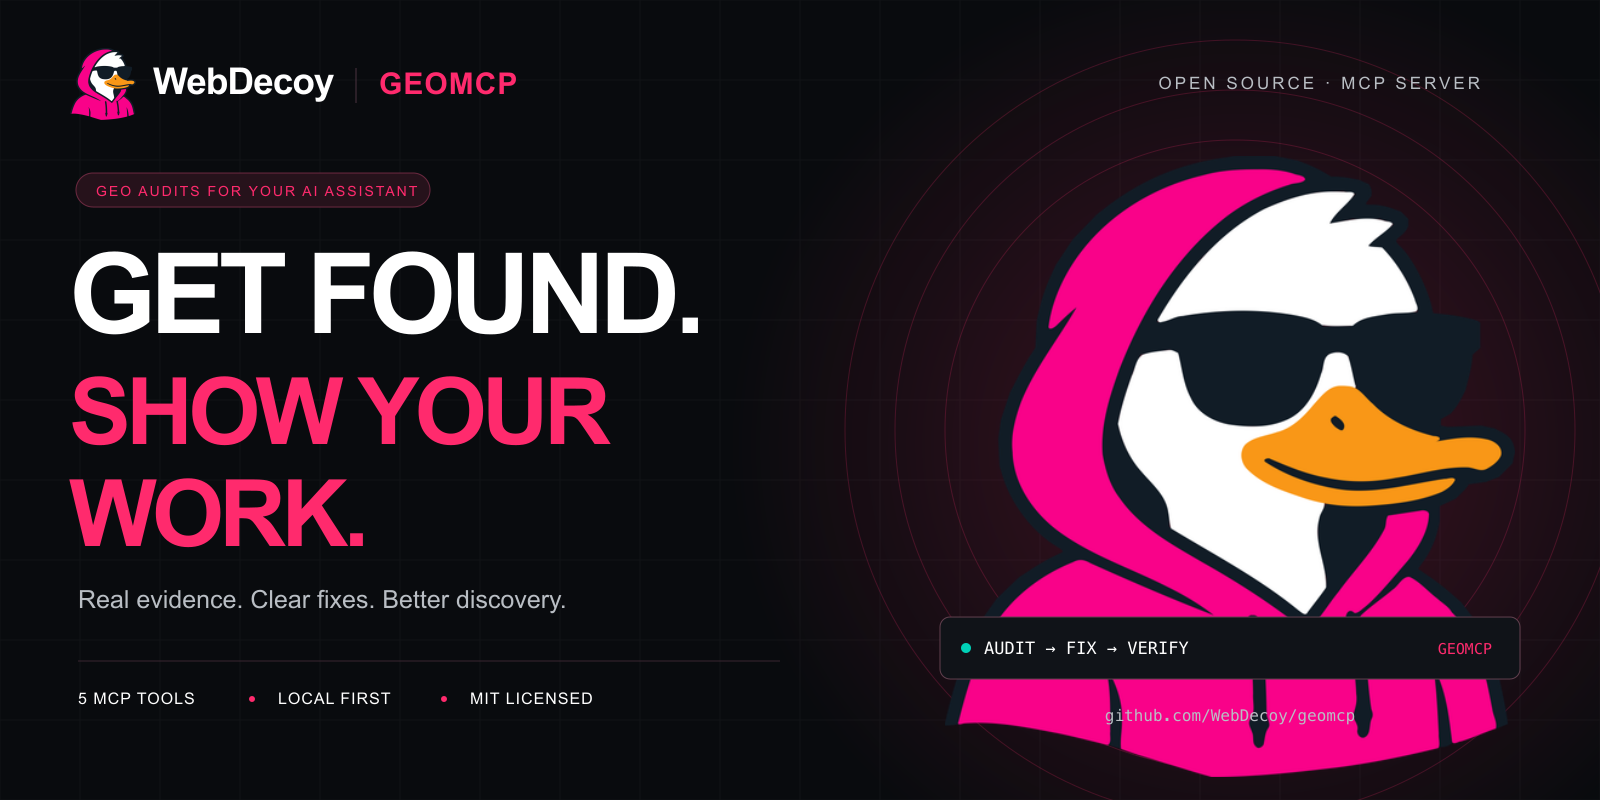
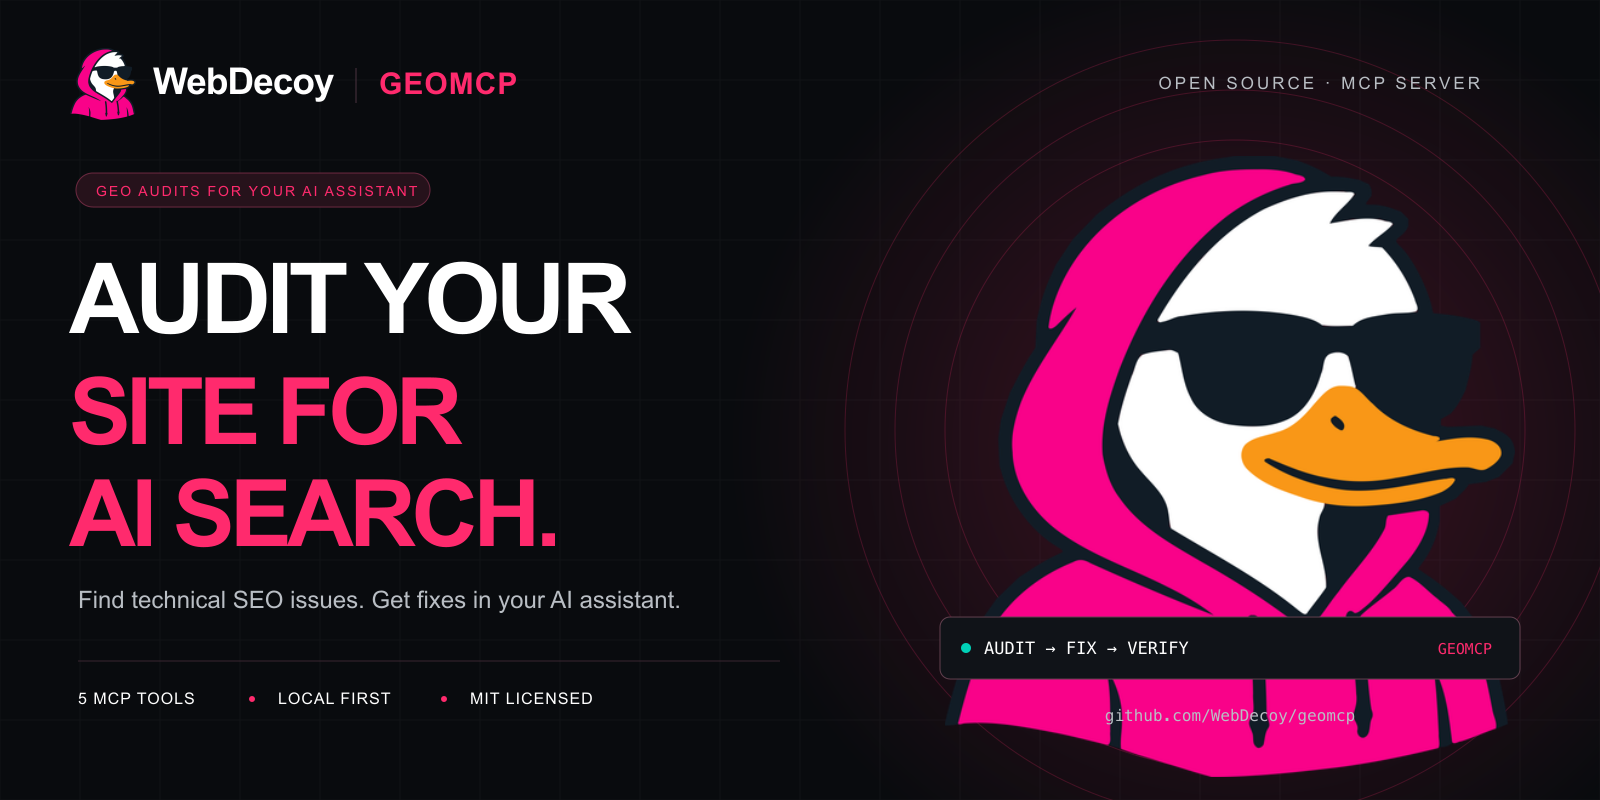
Explain GEOMCP directly: audit your site for AI search

diff --git a/README.md b/README.md
@@ -1,5 +1,5 @@
 <p align="center">
-  <img src="assets/cover.png" alt="GEOMCP by WebDecoy — Get found. Show your work. Evidence-first GEO audits inside your AI assistant." width="100%" />
+  <img src="assets/cover.png" alt="GEOMCP by WebDecoy — Audit your site for AI search. Evidence-first GEO audits inside your AI assistant." width="100%" />
 </p>
 
 <p align="center">
